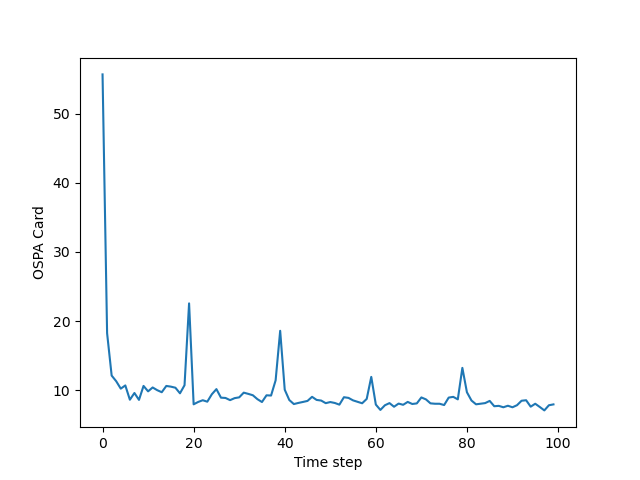
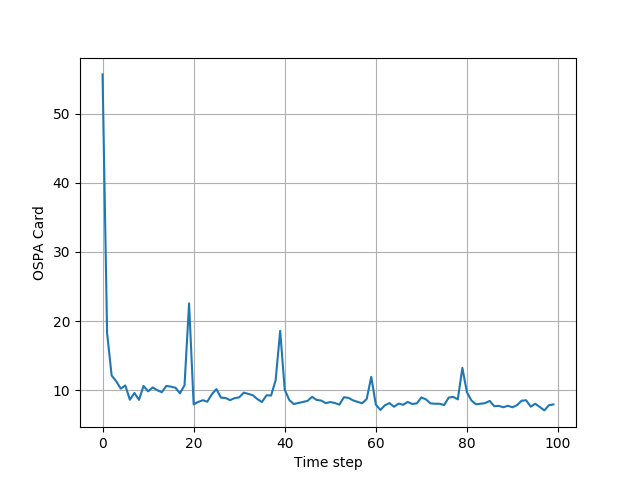
Aligned figures in README, added grids to some figures

diff --git a/monte_carlo_simulations_and_plots_of_results.py b/monte_carlo_simulations_and_plots_of_results.py
@@ -94,16 +94,19 @@ if __name__ == '__main__':
         plt.plot(ospAllMean)
         plt.xlabel('Time step')
         plt.ylabel('OSPA Dist')
+        plt.grid(True)
 
         plt.figure()
         plt.plot(ospLocMean)
         plt.xlabel('Time step')
         plt.ylabel('OSPA Loc')
+        plt.grid(True)
 
         plt.figure()
         plt.plot(ospCarMean)
         plt.xlabel('Time step')
         plt.ylabel('OSPA Card')
+        plt.grid(True)
 
         plt.figure()
         plt.plot(tnumMean)
@@ -111,5 +114,6 @@ if __name__ == '__main__':
         plt.plot(tnumMean + tnumStd)
         plt.xlabel('Time step')
         plt.ylabel('Avg. numb. of targets')
+        plt.grid(True)
         plt.show()
     # ===============================================================================

diff --git a/README.md b/README.md
@@ -8,17 +8,32 @@ The [gmphd.py](gmphd.py) contains two simulation examples.
 The first is actually replica of the example in "Bayesian Multiple 
 Target Filtering Using Random Finite Sets" by Vo, Vo, Clark used for performance evaulation of GMPHD filter. Targets lifes
  are based on Matlab code provided by Vo in http://ba-tuong.vo-au.com/codes.html and example doesn't contain target spawning.
- 
-![img](images/Figure_1.png?raw=True)![img](images/Figure_4.png?raw=True)
 
-![img](images/Figure_2.png?raw=True)![img](images/Figure_3.png?raw=True)
+ <table>
+  <tr>
+    <td valign="top"><img src="images/Figure_1.png"></td>
+    <td valign="top"><img src="images/Figure_4.png"></td>
+  </tr>
+  <tr>
+    <td valign="top"><img src="images/Figure_2.png"></td>
+    <td valign="top"><img src="images/Figure_3.png"></td>
+  </tr>
+ </table>
+ 
 ### Example 2
 The second example is based on simulation example in "The Gaussian mixture probability hypothesis density filter" by Vo and Ma. Also, 
 this example demonstrates the spawning situation.
 
-![img](images/2Figure_4.png?raw=True)![img](images/2Figure_1.png?raw=True)
-
-![img](images/2Figure_2.png?raw=True)![img](images/2Figure_3.png?raw=True)
+ <table>
+  <tr>
+    <td valign="top"><img src="images/2Figure_1.png"></td>
+    <td valign="top"><img src="images/2Figure_4.png"></td>
+  </tr>
+  <tr>
+    <td valign="top"><img src="images/2Figure_2.png"></td>
+    <td valign="top"><img src="images/2Figure_3.png"></td>
+  </tr>
+ </table>
 
 ## Simulation process and usage
 
@@ -65,8 +80,17 @@ MC2ospatnum500.pkl file, and you can plot it's result also in this file.
 
 You can toggle between simulation and plotting the results just with commenting out the appropriate section.
 
-
-
+ <table>
+  <tr>
+    <td valign="top"><img src="images/3Figure_4.png"></td>
+    <td valign="top"><img src="images/3Figure_1.png"></td>
+  </tr>
+  <tr>
+    <td valign="top"><img src="images/3Figure_2.png"></td>
+    <td valign="top"><img src="images/3Figure_3.png"></td>
+  </tr>
+ </table>
+<!--
 ![img](images/3Figure_4.png?raw=True)![img](images/3Figure_1.png?raw=True)
-
 ![img](images/3Figure_2.png?raw=True)![img](images/3Figure_3.png?raw=True)
+-->
